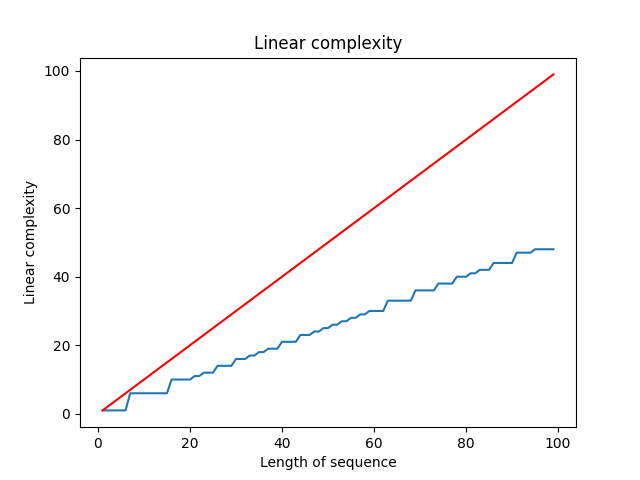
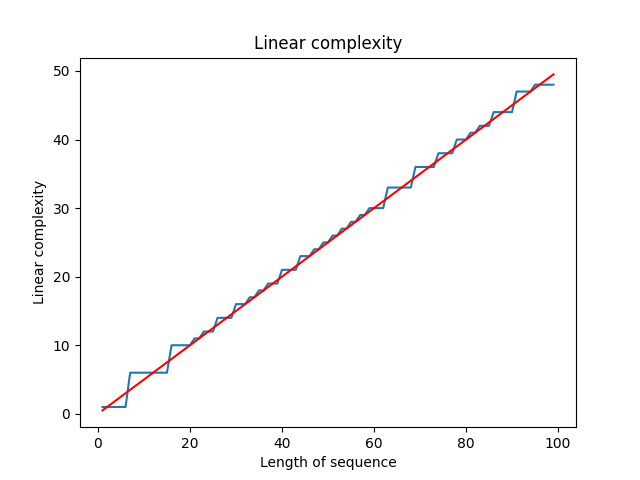
исправил неправильную формулу

diff --git a/lab5/main.py b/lab5/main.py
@@ -68,8 +68,9 @@ def get_symbols(num, sequence):
 
 
 def draw_plot(linear_list: list, lenght_list: list):
+    temp = [x / 2 for x in lenght_list]
     plt.plot(lenght_list, linear_list)
-    plt.plot(lenght_list, lenght_list, 'r')
+    plt.plot(lenght_list, temp, 'r')
     plt.xlabel('Length of sequence')
     plt.ylabel('Linear complexity')
     plt.title('Linear complexity')
